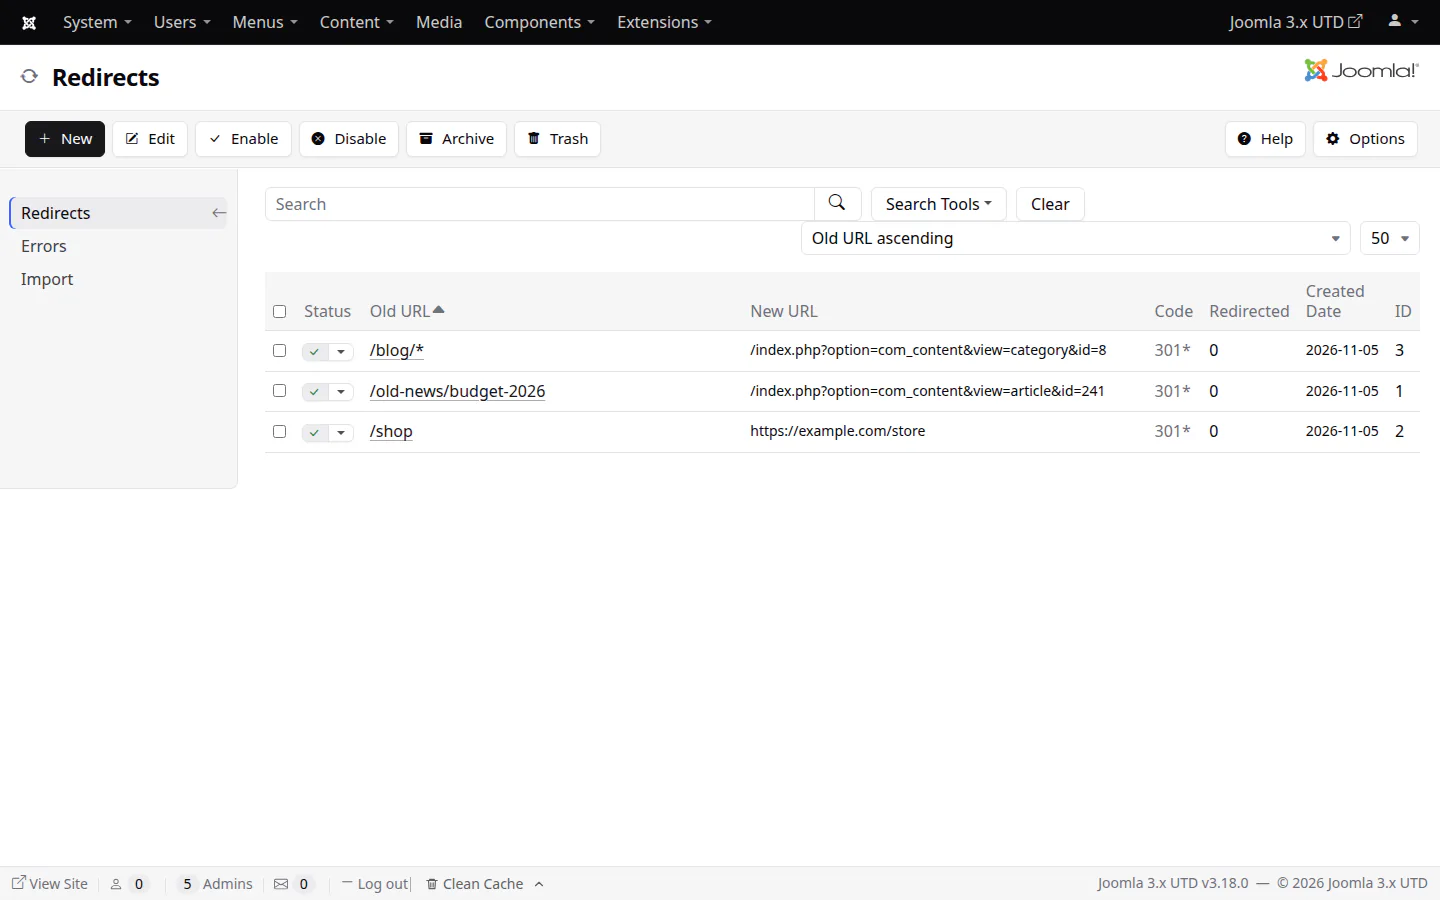
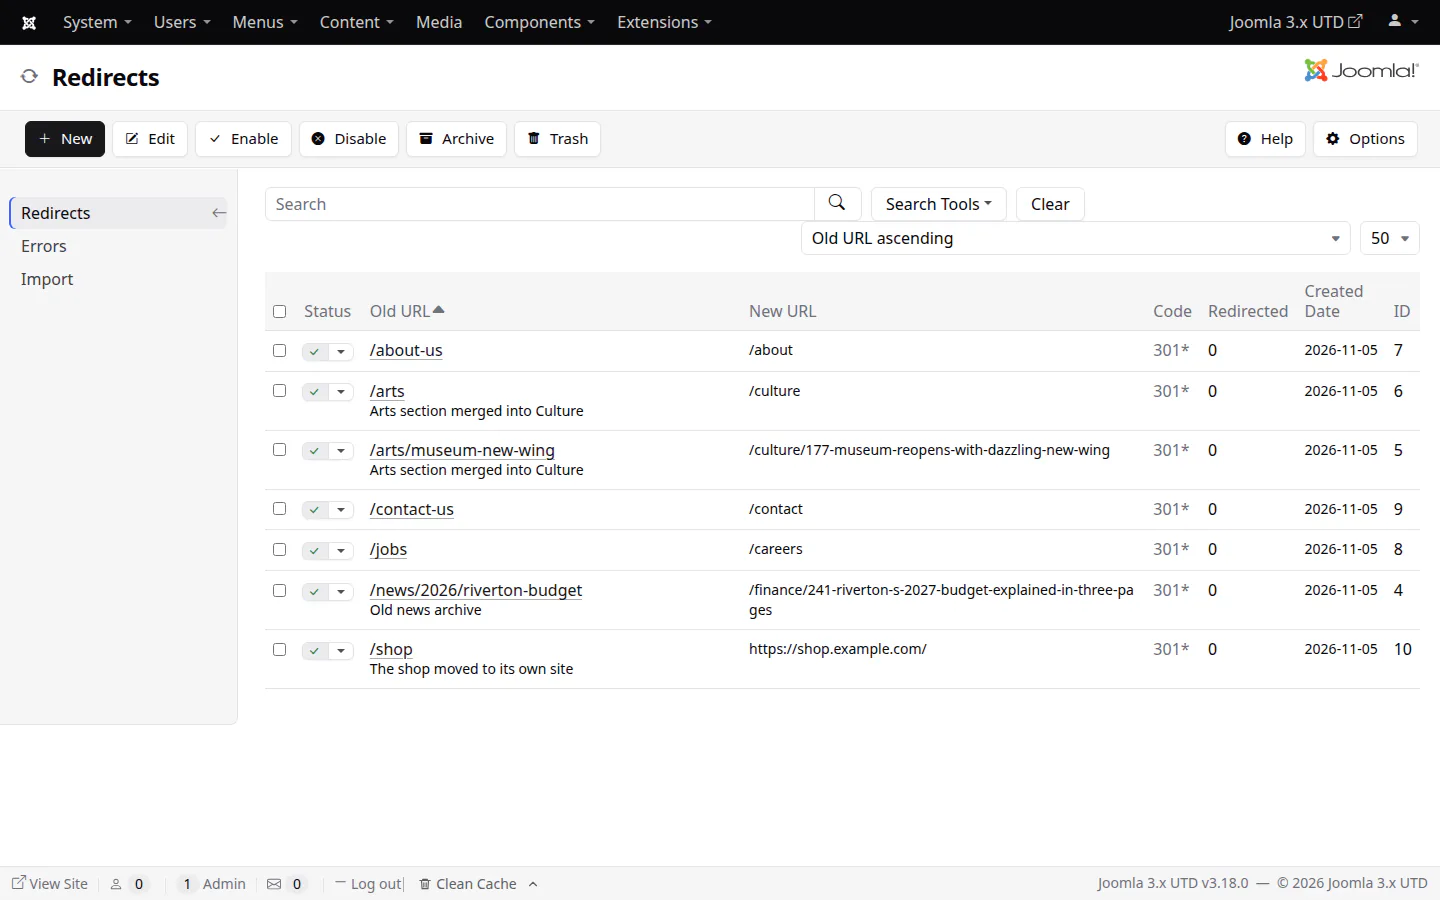
Site: realistic redirects in the screenshot; both version columns in the same font

diff --git a/index.html b/index.html
@@ -88,7 +88,7 @@
     <link rel="preconnect" href="https://fonts.googleapis.com" />
     <link rel="preconnect" href="https://fonts.gstatic.com" crossorigin="anonymous" />
     <link href="https://fonts.googleapis.com/css2?family=Geist:wght@400;500;600;700&amp;family=Geist+Mono:wght@400;500;600;700&amp;display=swap" rel="stylesheet" />
-    <link rel="stylesheet" href="assets/css/site.css?t=20261105_2207" />
+    <link rel="stylesheet" href="assets/css/site.css?t=20261105_2213" />
 </head>
 
 <body id="top">
@@ -391,7 +391,7 @@
                         <div class="car-viewport">
                             <div class="car-track">
                                 <figure class="car-slide" role="group" aria-roledescription="slide" aria-label="1 of 3">
-                                    <a class="zoom browser" href="assets/shots/redirects.webp" data-caption="Redirects"><img src="assets/shots/redirects.webp" width="1440" height="900" alt="The Redirects list: addresses on the site, wildcards and outside addresses" loading="lazy" decoding="async" /></a>
+                                    <a class="zoom browser" href="assets/shots/redirects.webp" data-caption="Redirects"><img src="assets/shots/redirects.webp" width="1440" height="900" alt="The Redirects list: old addresses sent to their new ones on the site, and one to another site" loading="lazy" decoding="async" /></a>
                                     <figcaption>Redirects</figcaption>
                                 </figure>
                                 <figure class="car-slide" role="group" aria-roledescription="slide" aria-label="2 of 3">

diff --git a/assets/css/site.css b/assets/css/site.css
@@ -315,7 +315,7 @@ a.zoom:hover{text-decoration:none}
 .dbt th{text-align:left;font-family:"Geist Mono",monospace;font-size:12px;font-weight:500;text-transform:uppercase;letter-spacing:.05em;color:var(--faint);padding:12px 20px;background:var(--bg2)}
 .dbt td{padding:14px 20px;border-top:1px solid var(--line);color:var(--dim);vertical-align:top}
 .dbt td:first-child{color:var(--text);font-weight:600;white-space:nowrap}
-.dbt td:nth-child(2){font-family:"Geist Mono",monospace;font-size:13.5px;color:var(--text);white-space:nowrap}
+.dbt td:nth-child(2),.dbt td:nth-child(3){font-family:"Geist Mono",monospace;font-size:13.5px;color:var(--text);white-space:nowrap}
 .dbt .new{display:inline-block;margin-left:8px;font-family:"Geist Mono",monospace;font-size:11px;font-weight:600;padding:1px 7px;border-radius:999px;background:var(--accent);color:var(--on-accent);vertical-align:2px}
 .two{display:grid;grid-template-columns:repeat(2,minmax(0,1fr));gap:20px;margin-top:48px}
 @media(max-width:800px){.two{grid-template-columns:1fr}}
